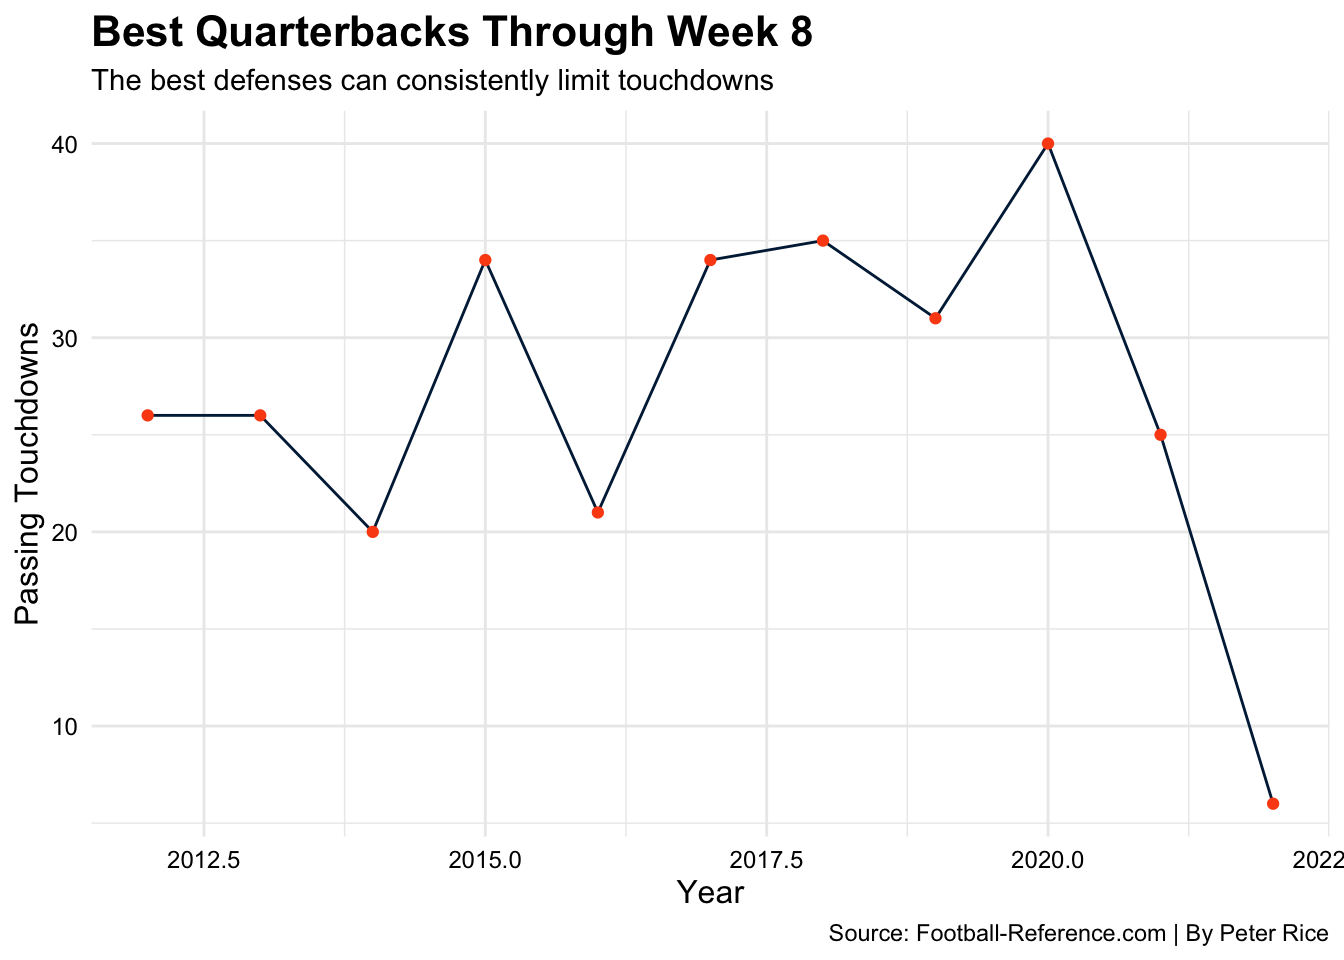
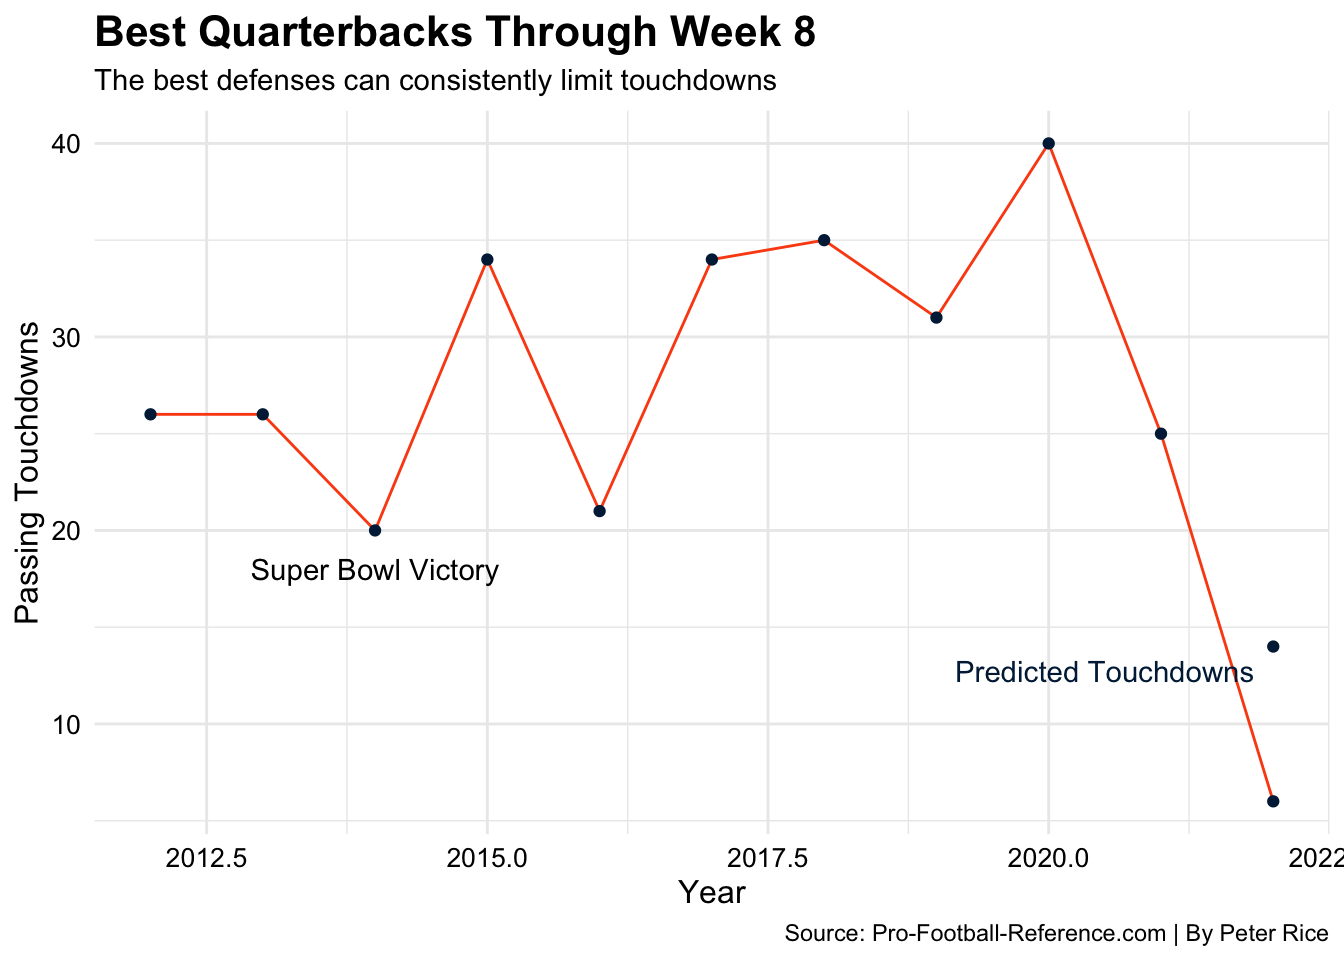
go
k

diff --git a/posts/russell-wilson-isnt-living-up-to-hype/index.html b/posts/russell-wilson-isnt-living-up-to-hype/index.html
@@ -326,12 +326,12 @@ code span.wa { color: #60a0b0; font-weight: bold; font-style: italic; } /* Warni
 </details>
 <div class="cell-output-display">
 
-<div id="gfcqafctri" style="overflow-x:auto;overflow-y:auto;width:auto;height:auto;">
+<div id="cercaqeyzz" style="overflow-x:auto;overflow-y:auto;width:auto;height:auto;">
 <style>html {
   font-family: -apple-system, BlinkMacSystemFont, 'Segoe UI', Roboto, Oxygen, Ubuntu, Cantarell, 'Helvetica Neue', 'Fira Sans', 'Droid Sans', Arial, sans-serif;
 }
 
-:where(#gfcqafctri) .gt_table {
+:where(#cercaqeyzz) .gt_table {
   display: table;
   border-collapse: collapse;
   margin-left: auto;
@@ -356,7 +356,7 @@ code span.wa { color: #60a0b0; font-weight: bold; font-style: italic; } /* Warni
   border-left-color: #D3D3D3;
 }
 
-:where(#gfcqafctri) .gt_heading {
+:where(#cercaqeyzz) .gt_heading {
   background-color: #FFFFFF;
   text-align: center;
   border-bottom-color: #FFFFFF;
@@ -368,7 +368,7 @@ code span.wa { color: #60a0b0; font-weight: bold; font-style: italic; } /* Warni
   border-right-color: #D3D3D3;
 }
 
-:where(#gfcqafctri) .gt_title {
+:where(#cercaqeyzz) .gt_title {
   color: #333333;
   font-size: 125%;
   font-weight: initial;
@@ -380,7 +380,7 @@ code span.wa { color: #60a0b0; font-weight: bold; font-style: italic; } /* Warni
   border-bottom-width: 0;
 }
 
-:where(#gfcqafctri) .gt_subtitle {
+:where(#cercaqeyzz) .gt_subtitle {
   color: #333333;
   font-size: 85%;
   font-weight: initial;
@@ -392,13 +392,13 @@ code span.wa { color: #60a0b0; font-weight: bold; font-style: italic; } /* Warni
   border-top-width: 0;
 }
 
-:where(#gfcqafctri) .gt_bottom_border {
+:where(#cercaqeyzz) .gt_bottom_border {
   border-bottom-style: none;
   border-bottom-width: 2px;
   border-bottom-color: #D3D3D3;
 }
 
-:where(#gfcqafctri) .gt_col_headings {
+:where(#cercaqeyzz) .gt_col_headings {
   border-top-style: none;
   border-top-width: 2px;
   border-top-color: #D3D3D3;
@@ -413,7 +413,7 @@ code span.wa { color: #60a0b0; font-weight: bold; font-style: italic; } /* Warni
   border-right-color: #D3D3D3;
 }
 
-:where(#gfcqafctri) .gt_col_heading {
+:where(#cercaqeyzz) .gt_col_heading {
   color: #333333;
   background-color: #FFFFFF;
   font-size: 100%;
@@ -433,7 +433,7 @@ code span.wa { color: #60a0b0; font-weight: bold; font-style: italic; } /* Warni
   overflow-x: hidden;
 }
 
-:where(#gfcqafctri) .gt_column_spanner_outer {
+:where(#cercaqeyzz) .gt_column_spanner_outer {
   color: #333333;
   background-color: #FFFFFF;
   font-size: 100%;
@@ -445,15 +445,15 @@ code span.wa { color: #60a0b0; font-weight: bold; font-style: italic; } /* Warni
   padding-right: 4px;
 }
 
-:where(#gfcqafctri) .gt_column_spanner_outer:first-child {
+:where(#cercaqeyzz) .gt_column_spanner_outer:first-child {
   padding-left: 0;
 }
 
-:where(#gfcqafctri) .gt_column_spanner_outer:last-child {
+:where(#cercaqeyzz) .gt_column_spanner_outer:last-child {
   padding-right: 0;
 }
 
-:where(#gfcqafctri) .gt_column_spanner {
+:where(#cercaqeyzz) .gt_column_spanner {
   border-bottom-style: none;
   border-bottom-width: 2px;
   border-bottom-color: #D3D3D3;
@@ -465,7 +465,7 @@ code span.wa { color: #60a0b0; font-weight: bold; font-style: italic; } /* Warni
   width: 100%;
 }
 
-:where(#gfcqafctri) .gt_group_heading {
+:where(#cercaqeyzz) .gt_group_heading {
   padding-top: 8px;
   padding-bottom: 8px;
   padding-left: 5px;
@@ -490,7 +490,7 @@ code span.wa { color: #60a0b0; font-weight: bold; font-style: italic; } /* Warni
   vertical-align: middle;
 }
 
-:where(#gfcqafctri) .gt_empty_group_heading {
+:where(#cercaqeyzz) .gt_empty_group_heading {
   padding: 0.5px;
   color: #333333;
   background-color: #FFFFFF;
@@ -505,15 +505,15 @@ code span.wa { color: #60a0b0; font-weight: bold; font-style: italic; } /* Warni
   vertical-align: middle;
 }
 
-:where(#gfcqafctri) .gt_from_md > :first-child {
+:where(#cercaqeyzz) .gt_from_md > :first-child {
   margin-top: 0;
 }
 
-:where(#gfcqafctri) .gt_from_md > :last-child {
+:where(#cercaqeyzz) .gt_from_md > :last-child {
   margin-bottom: 0;
 }
 
-:where(#gfcqafctri) .gt_row {
+:where(#cercaqeyzz) .gt_row {
   padding-top: 8px;
   padding-bottom: 8px;
   padding-left: 5px;
@@ -532,7 +532,7 @@ code span.wa { color: #60a0b0; font-weight: bold; font-style: italic; } /* Warni
   overflow-x: hidden;
 }
 
-:where(#gfcqafctri) .gt_stub {
+:where(#cercaqeyzz) .gt_stub {
   color: #333333;
   background-color: #FFFFFF;
   font-size: 100%;
@@ -545,7 +545,7 @@ code span.wa { color: #60a0b0; font-weight: bold; font-style: italic; } /* Warni
   padding-right: 5px;
 }
 
-:where(#gfcqafctri) .gt_stub_row_group {
+:where(#cercaqeyzz) .gt_stub_row_group {
   color: #333333;
   background-color: #FFFFFF;
   font-size: 100%;
@@ -559,11 +559,11 @@ code span.wa { color: #60a0b0; font-weight: bold; font-style: italic; } /* Warni
   vertical-align: top;
 }
 
-:where(#gfcqafctri) .gt_row_group_first td {
+:where(#cercaqeyzz) .gt_row_group_first td {
   border-top-width: 2px;
 }
 
-:where(#gfcqafctri) .gt_summary_row {
+:where(#cercaqeyzz) .gt_summary_row {
   color: #333333;
   background-color: #FFFFFF;
   text-transform: inherit;
@@ -573,16 +573,16 @@ code span.wa { color: #60a0b0; font-weight: bold; font-style: italic; } /* Warni
   padding-right: 5px;
 }
 
-:where(#gfcqafctri) .gt_first_summary_row {
+:where(#cercaqeyzz) .gt_first_summary_row {
   border-top-style: none;
   border-top-color: #D3D3D3;
 }
 
-:where(#gfcqafctri) .gt_first_summary_row.thick {
+:where(#cercaqeyzz) .gt_first_summary_row.thick {
   border-top-width: 2px;
 }
 
-:where(#gfcqafctri) .gt_last_summary_row {
+:where(#cercaqeyzz) .gt_last_summary_row {
   padding-top: 8px;
   padding-bottom: 8px;
   padding-left: 5px;
@@ -592,7 +592,7 @@ code span.wa { color: #60a0b0; font-weight: bold; font-style: italic; } /* Warni
   border-bottom-color: #D3D3D3;
 }
 
-:where(#gfcqafctri) .gt_grand_summary_row {
+:where(#cercaqeyzz) .gt_grand_summary_row {
   color: #333333;
   background-color: #FFFFFF;
   text-transform: inherit;
@@ -602,7 +602,7 @@ code span.wa { color: #60a0b0; font-weight: bold; font-style: italic; } /* Warni
   padding-right: 5px;
 }
 
-:where(#gfcqafctri) .gt_first_grand_summary_row {
+:where(#cercaqeyzz) .gt_first_grand_summary_row {
   padding-top: 8px;
   padding-bottom: 8px;
   padding-left: 5px;
@@ -612,11 +612,11 @@ code span.wa { color: #60a0b0; font-weight: bold; font-style: italic; } /* Warni
   border-top-color: #D3D3D3;
 }
 
-:where(#gfcqafctri) .gt_striped {
+:where(#cercaqeyzz) .gt_striped {
   background-color: rgba(128, 128, 128, 0.05);
 }
 
-:where(#gfcqafctri) .gt_table_body {
+:where(#cercaqeyzz) .gt_table_body {
   border-top-style: none;
   border-top-width: 2px;
   border-top-color: #D3D3D3;
@@ -625,7 +625,7 @@ code span.wa { color: #60a0b0; font-weight: bold; font-style: italic; } /* Warni
   border-bottom-color: #D3D3D3;
 }
 
-:where(#gfcqafctri) .gt_footnotes {
+:where(#cercaqeyzz) .gt_footnotes {
   color: #333333;
   background-color: #FFFFFF;
   border-bottom-style: none;
@@ -639,7 +639,7 @@ code span.wa { color: #60a0b0; font-weight: bold; font-style: italic; } /* Warni
   border-right-color: #D3D3D3;
 }
 
-:where(#gfcqafctri) .gt_footnote {
+:where(#cercaqeyzz) .gt_footnote {
   margin: 0px;
   font-size: 90%;
   padding-left: 4px;
@@ -648,7 +648,7 @@ code span.wa { color: #60a0b0; font-weight: bold; font-style: italic; } /* Warni
   padding-right: 5px;
 }
 
-:where(#gfcqafctri) .gt_sourcenotes {
+:where(#cercaqeyzz) .gt_sourcenotes {
   color: #333333;
   background-color: #FFFFFF;
   border-bottom-style: none;
@@ -662,7 +662,7 @@ code span.wa { color: #60a0b0; font-weight: bold; font-style: italic; } /* Warni
   border-right-color: #D3D3D3;
 }
 
-:where(#gfcqafctri) .gt_sourcenote {
+:where(#cercaqeyzz) .gt_sourcenote {
   font-size: 90%;
   padding-top: 4px;
   padding-bottom: 4px;
@@ -670,64 +670,64 @@ code span.wa { color: #60a0b0; font-weight: bold; font-style: italic; } /* Warni
   padding-right: 5px;
 }
 
-:where(#gfcqafctri) .gt_left {
+:where(#cercaqeyzz) .gt_left {
   text-align: left;
 }
 
-:where(#gfcqafctri) .gt_center {
+:where(#cercaqeyzz) .gt_center {
   text-align: center;
 }
 
-:where(#gfcqafctri) .gt_right {
+:where(#cercaqeyzz) .gt_right {
   text-align: right;
   font-variant-numeric: tabular-nums;
 }
 
-:where(#gfcqafctri) .gt_font_normal {
+:where(#cercaqeyzz) .gt_font_normal {
   font-weight: normal;
 }
 
-:where(#gfcqafctri) .gt_font_bold {
+:where(#cercaqeyzz) .gt_font_bold {
   font-weight: bold;
 }
 
-:where(#gfcqafctri) .gt_font_italic {
+:where(#cercaqeyzz) .gt_font_italic {
   font-style: italic;
 }
 
-:where(#gfcqafctri) .gt_super {
+:where(#cercaqeyzz) .gt_super {
   font-size: 65%;
 }
 
-:where(#gfcqafctri) .gt_footnote_marks {
+:where(#cercaqeyzz) .gt_footnote_marks {
   font-style: italic;
   font-weight: normal;
   font-size: 75%;
   vertical-align: 0.4em;
 }
 
-:where(#gfcqafctri) .gt_asterisk {
+:where(#cercaqeyzz) .gt_asterisk {
   font-size: 100%;
   vertical-align: 0;
 }
 
-:where(#gfcqafctri) .gt_indent_1 {
+:where(#cercaqeyzz) .gt_indent_1 {
   text-indent: 5px;
 }
 
-:where(#gfcqafctri) .gt_indent_2 {
+:where(#cercaqeyzz) .gt_indent_2 {
   text-indent: 10px;
 }
 
-:where(#gfcqafctri) .gt_indent_3 {
+:where(#cercaqeyzz) .gt_indent_3 {
   text-indent: 15px;
 }
 
-:where(#gfcqafctri) .gt_indent_4 {
+:where(#cercaqeyzz) .gt_indent_4 {
   text-indent: 20px;
 }
 
-:where(#gfcqafctri) .gt_indent_5 {
+:where(#cercaqeyzz) .gt_indent_5 {
   text-indent: 25px;
 }
 </style>
@@ -860,17 +860,20 @@ Specify the column types or set `show_col_types = FALSE` to quiet this message.
 <details>
 <summary>Code</summary>
 <div class="sourceCode cell-code" id="cb7"><pre class="sourceCode r code-with-copy"><code class="sourceCode r"><span id="cb7-1"><a href="#cb7-1" aria-hidden="true" tabindex="-1"></a><span class="fu">ggplot</span>() <span class="sc">+</span> </span>
-<span id="cb7-2"><a href="#cb7-2" aria-hidden="true" tabindex="-1"></a>  <span class="fu">geom_line</span>(<span class="at">data=</span>mrunl2, <span class="fu">aes</span>(<span class="at">x=</span>Year, <span class="at">y=</span>TD), <span class="at">color=</span><span class="st">"#002244"</span>) <span class="sc">+</span></span>
-<span id="cb7-3"><a href="#cb7-3" aria-hidden="true" tabindex="-1"></a>  <span class="fu">geom_point</span>(<span class="at">data=</span>mrunl2, <span class="fu">aes</span>(<span class="at">x=</span>Year, <span class="at">y=</span>TD), <span class="at">color=</span><span class="st">"#FB4F14"</span>) <span class="sc">+</span></span>
+<span id="cb7-2"><a href="#cb7-2" aria-hidden="true" tabindex="-1"></a>  <span class="fu">geom_line</span>(<span class="at">data=</span>mrunl2, <span class="fu">aes</span>(<span class="at">x=</span>Year, <span class="at">y=</span>TD), <span class="at">color=</span><span class="st">"#FB4F14"</span>) <span class="sc">+</span></span>
+<span id="cb7-3"><a href="#cb7-3" aria-hidden="true" tabindex="-1"></a>  <span class="fu">geom_point</span>(<span class="at">data=</span>mrunl2, <span class="fu">aes</span>(<span class="at">x=</span>Year, <span class="at">y=</span>TD), <span class="at">color=</span><span class="st">"#002244"</span>) <span class="sc">+</span></span>
 <span id="cb7-4"><a href="#cb7-4" aria-hidden="true" tabindex="-1"></a><span class="fu">labs</span>(<span class="at">x =</span> <span class="st">"Year"</span>, <span class="at">y =</span> <span class="st">"Passing Touchdowns"</span>,</span>
 <span id="cb7-5"><a href="#cb7-5" aria-hidden="true" tabindex="-1"></a><span class="at">title =</span> <span class="st">"Best Quarterbacks Through Week 8"</span>,</span>
 <span id="cb7-6"><a href="#cb7-6" aria-hidden="true" tabindex="-1"></a><span class="at">subtitle =</span> <span class="st">"The best defenses can consistently limit touchdowns "</span>,</span>
-<span id="cb7-7"><a href="#cb7-7" aria-hidden="true" tabindex="-1"></a><span class="at">caption =</span> <span class="st">"Source: Football-Reference.com | By Peter Rice"</span>, <span class="at">legend.position =</span> <span class="st">"none"</span>) <span class="sc">+</span></span>
+<span id="cb7-7"><a href="#cb7-7" aria-hidden="true" tabindex="-1"></a><span class="at">caption =</span> <span class="st">"Source: Pro-Football-Reference.com | By Peter Rice"</span>, <span class="at">legend.position =</span> <span class="st">"none"</span>) <span class="sc">+</span></span>
 <span id="cb7-8"><a href="#cb7-8" aria-hidden="true" tabindex="-1"></a><span class="fu">theme_minimal</span>() <span class="sc">+</span> <span class="fu">theme</span>(</span>
 <span id="cb7-9"><a href="#cb7-9" aria-hidden="true" tabindex="-1"></a><span class="at">plot.title =</span> <span class="fu">element_text</span>(<span class="at">size =</span> <span class="dv">16</span>, <span class="at">face =</span> <span class="st">"bold"</span>),</span>
 <span id="cb7-10"><a href="#cb7-10" aria-hidden="true" tabindex="-1"></a><span class="at">axis.title =</span> <span class="fu">element_text</span>(<span class="at">size =</span> <span class="dv">12</span>),</span>
-<span id="cb7-11"><a href="#cb7-11" aria-hidden="true" tabindex="-1"></a><span class="at">axis.text =</span> <span class="fu">element_text</span>(<span class="at">size =</span> <span class="dv">9</span>, <span class="at">color =</span> <span class="st">"black"</span>) </span>
-<span id="cb7-12"><a href="#cb7-12" aria-hidden="true" tabindex="-1"></a>) </span></code><button title="Copy to Clipboard" class="code-copy-button"><i class="bi"></i></button></pre></div>
+<span id="cb7-11"><a href="#cb7-11" aria-hidden="true" tabindex="-1"></a><span class="at">axis.text =</span> <span class="fu">element_text</span>(<span class="at">size =</span> <span class="dv">10</span>, <span class="at">color =</span> <span class="st">"black"</span>) </span>
+<span id="cb7-12"><a href="#cb7-12" aria-hidden="true" tabindex="-1"></a>) <span class="sc">+</span></span>
+<span id="cb7-13"><a href="#cb7-13" aria-hidden="true" tabindex="-1"></a>  <span class="fu">geom_text</span>(<span class="fu">aes</span>(<span class="at">x=</span><span class="dv">2014</span>, <span class="at">y=</span><span class="dv">18</span>, <span class="at">label=</span><span class="st">"Super Bowl Victory"</span>), <span class="at">color=</span><span class="st">"black"</span>) <span class="sc">+</span></span>
+<span id="cb7-14"><a href="#cb7-14" aria-hidden="true" tabindex="-1"></a>  <span class="fu">geom_text</span>(<span class="fu">aes</span>(<span class="at">x=</span><span class="fl">2020.5</span>, <span class="at">y=</span><span class="fl">12.75</span>, <span class="at">label=</span><span class="st">"Predicted Touchdowns"</span>), <span class="at">color=</span><span class="st">"#002244"</span>) <span class="sc">+</span></span>
+<span id="cb7-15"><a href="#cb7-15" aria-hidden="true" tabindex="-1"></a>  <span class="fu">geom_point</span>(<span class="fu">aes</span>(<span class="at">x=</span><span class="dv">2022</span>, <span class="at">y=</span><span class="dv">14</span>), <span class="at">color=</span><span class="st">"#002244"</span>) </span></code><button title="Copy to Clipboard" class="code-copy-button"><i class="bi"></i></button></pre></div>
 </details>
 <div class="cell-output-display">
 <p><img src="index_files/figure-html/unnamed-chunk-3-1.png" class="img-fluid" width="672"></p>

diff --git a/index.html b/index.html
@@ -164,7 +164,7 @@ ul.task-list li input[type="checkbox"] {
 
 <div class="quarto-listing quarto-listing-container-default" id="listing-listing">
 <div class="list quarto-listing-default">
-<div class="quarto-post image-right" data-index="0" data-categories="sports,data,football" data-listing-date-sort="1667538000000" data-listing-file-modified-sort="1667725286802" data-listing-reading-time-sort="3.635">
+<div class="quarto-post image-right" data-index="0" data-categories="sports,data,football" data-listing-date-sort="1667538000000" data-listing-file-modified-sort="1667727604829" data-listing-reading-time-sort="3.735">
 <div class="thumbnail">
 <p><a href="./posts/russell-wilson-isnt-living-up-to-hype/index.html"> <img src="./posts/russell-wilson-isnt-living-up-to-hype/image.png" class="thumnail-image"> </a></p>
 </div>
